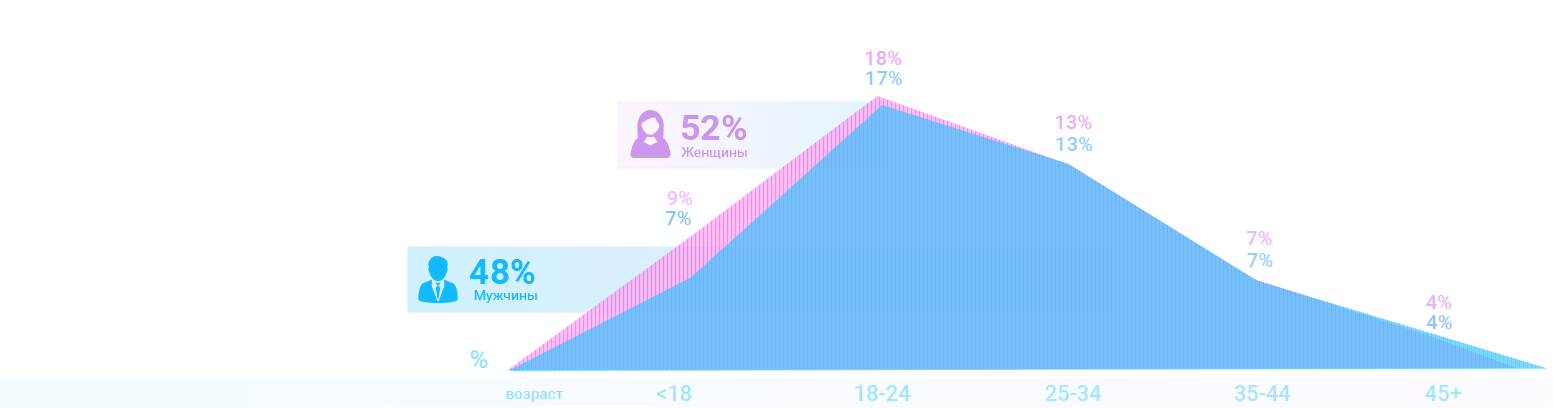
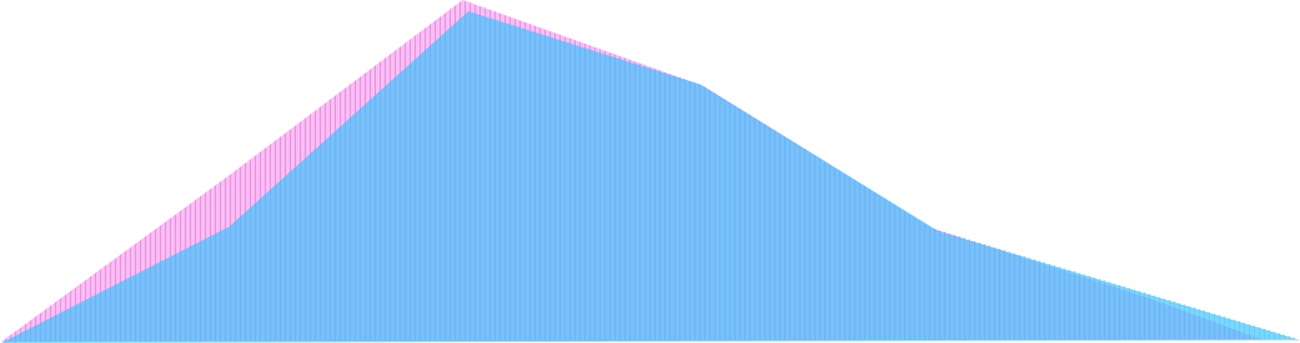
commit

diff --git a/linkagency.css b/linkagency.css
@@ -247,11 +247,126 @@ input:focus {
 }
 /**/
 #graphical_diagram{
-	background-image:  url("img/background3.jpg"); 
+	/*background-image:  url("img/background3.jpg"); */
 	background-size: cover;
 	background-repeat: no-repeat;
 	height: 43vw;
+	
+	background-image: radial-gradient(16px at 8% 50% ,#022e74 0%, #0d8dd2 60vw, #13baff 90vw); 
+	width: 100%;
+	position: relative;
 }
+#graphical_diagram .diagram {
+	width: 100%;
+	height: 100%;
+	position: absolute;
+	top: 0;
+	z-index: 1;
+}
+
+#graphical_diagram .wrap {
+	position: relative;
+	z-index: 1;
+	left: 0;
+}
+#graphical_diagram .container{
+	position: relative;
+	margin:auto;
+	height: 50vh;
+}
+#diagram_bg {
+	position: absolute;
+	top: 0;
+	left: 0;
+
+}
+#firstD {
+
+}
+#firstD .container{
+	position: relative;
+	margin: auto;
+}
+#firstD .container .wrap {
+	height: 0%;
+	width: 60%;
+	background-image: url(img/graphic.png);
+	position: relative;
+	margin: auto auto 0 auto;
+	background-size: 100% 100%;
+	justify-content: flex-start;
+	overflow: visible !important;
+}
+#firstD .container .wrap .numbers {
+	width: 18.1%;
+	text-align: right;
+	height: 100%;
+	position: relative;
+	top: -37px;
+}
+#firstD .container .wrap .numbers p {
+	margin: 0;
+	position: relative;
+}
+#firstD .container .wrap .numbers p:nth-child(1){
+	color:#eda6ff;
+}
+#firstD .container .wrap .numbers p:nth-child(2){
+	color: #92caff
+}
+
+#firstD .container .wrap .numbers:nth-child(1) p{
+	top: 49%;
+}
+#firstD .container .wrap .numbers:nth-child(2) p{
+	top: 0%;
+}
+#firstD .container .wrap .numbers:nth-child(3) p{
+	top: 24%;
+}
+#firstD .container .wrap .numbers:nth-child(4) p{
+	top: 66%;
+}
+#firstD .container .wrap .numbers:nth-child(5) p{
+	top: 88%;
+}
+#firstD .gender {
+	position: absolute;
+}
+#secondD {
+		display: flex;
+}
+
+#secondD .container {
+	
+	
+	text-align: center;
+
+
+}
+#secondD .container ul{
+		height: 100%;
+}
+#secondD .container li{
+	margin: 0 1.5vw;
+	flex-direction: column;
+	justify-content: flex-end;
+}
+#secondD .container li p {
+	color: #83e4ff;
+	margin: 10px 0 0 0;
+
+}
+#secondD .column {
+	height: 0;
+	width: 5vw;
+}
+#secondD .value {
+	margin: 5px;
+	color: #fff;
+}
+
+
 /**/
 #diagram{
 	background-image:  url("img/background4.jpg"); 

diff --git a/js/animations.js b/js/animations.js
@@ -1,0 +1,52 @@
+$(function(){
+	var animations = []
+	var reset = []
+
+	animations[0] = function(){
+		heightTo = 70;
+		numbersLen = $('#firstD .numbers').length
+		numbersVal = [];
+		for (var i = 0; i < numbersLen; i++) {
+			numbersVal[i] = {}
+			numbersVal[i].f =  parseInt($('#firstD .numbers:eq('+i+')').attr('female'))
+			numbersVal[i].m =  parseInt($('#firstD .numbers:eq('+i+')').attr('male'))
+		}
+		console.log(numbersVal)
+		pixelsto = $('#firstD .container').height()/100*heightTo
+		$('#firstD .container .wrap').animate({'height':pixelsto},{duration:1000,step:function(now,fx){
+			console.log(now/pixelsto)
+			for (var i = 0; i <numbersLen; i++) {
+				
+				$('#firstD .numbers:eq('+i+') p:nth-child('+1+')').html(Math.round(now/pixelsto*numbersVal[i].f)+'%')
+				$('#firstD .numbers:eq('+i+') p:nth-child('+2+')').html(Math.round(now/pixelsto*numbersVal[i].m)+'%')
+			}
+		}, complete: function(){alert('go')}})
+		
+	}
+
+	animations[1] = function(){
+		containerHeight =  $('#secondD .container').height()
+		len = $('#secondD li').length
+		timer = 1000
+		console.log(len)
+		for (var i = 0; i < len; i++) {
+			that = $('#secondD .column:eq('+i+')')
+			val = that.attr('val')
+			height = (containerHeight/100)*val
+
+		
+			
+			
+			$('#secondD .column:eq('+i+')').animate({'height': height},{duration:timer, step:function(now,fx){
+				$(this).siblings('.value').html(Math.round((now/containerHeight)*1000)/10 + '%')
+					}
+			})
+			console.log($('#secondD .column:eq('+i+')'))
+
+		}
+
+	}
+
+	animations[0]()
+
+})

diff --git a/index.php b/index.php
@@ -121,6 +121,7 @@
 
 		<script src="js/jquery-3.2.1.js"></script>
 		<script src="js/jquery-3.2.1.min.js"></script>
+		<script src = "js/animations.js"></script>
 
 		<!--for first gallery-->
 		<script>
@@ -351,8 +352,84 @@
 
 			<div id="graphical_diagram">
 
-				<img src="img/graphic.png" width="80%" style="margin-top: 10vw;">
+				<!--<img src="img/graphic.png" width="80%" style="margin-top: 10vw;">-->
+				<div class="wrap">
+						<div id="firstD" class="diagram" style="left: 0">
+							<div class="container flex">
+									
+								<div class=" flex wrap">
+									<div class="gender fe"><p class="prec">52%</p><p>Женщины</p></div>	
+									<div class="gender ma"><p class="prec">48%</p><p> Мужчины</p></div>	
+									<div class="numbers" male="7" female="9"><p>0</p><p>0<p></div>
+									<div class="numbers" male="17" female="18"><p>0</p><p>0<p></div>
+									<div class="numbers" male="13" female="13"><p>0</p><p>0<p></div>
+									<div class="numbers" male="7" female="7"><p>0</p><p>0<p></div>
+									<div class="numbers" male="4" female="4"><p>0</p><p>0<p></div>
+								</div>
+							</div>
+						</div>
+						<div id="secondD" class="diagram" style="left: 100%">
+							<div class="container">
+								<ul class="flex">
+									<li class="flex">
+										<h3 class="value"></h3>
+										<div class="column" style="background-color: #00bff3" val="68.5">	</div>
+										<p class="name">Внутренние<p>
+									</li>
+									<li class="flex">
+										<h3 class="value"></h3>
+										<div class="column" style="background-color: #00afde" val='23.1'>	</div>
+										<p class="name">Поиск<p>
+									</li>
+									<li class="flex">
+										<h3 class="value"></h3>
+										<div class="column" style="background-color: #02a1cb" val='7.8'>	</div>
+										<p class="name">Закладки<p>
+									</li>
+									<li class="flex">
+										<h3 class="value"></h3>
+										<div class="column" style="background-color: #02a1cb" val='0.5'>	</div>
+										<p class="name">Сайты<p>
+									</li>
+									<li class="flex">
+										<h3 class="value"></h3>
+										<div class="column" style="background-color: #02a1cb" val='0.1'>	</div>
+										<p class="name">Соц. сети<p>
+									</li>
+									<li class="flex">
+										<h3 class="value"></h3>
+										<div class="column" style="background-color: #02a1cb" val='0'>	</div>
+										<p class="name">Объявления<p>
+									</li>
+								</ul>
+							</div>
+						</div>
+				<div class="diagram" style="left: 200%"></div>
+				</div>
+				<canvas id="diagram_bg" width="300vw" height="100%"></canvas>
 			</div>
+			<script type="">
+
+				var dotCount = 350;
+				var dotSizeMax = 13;
+				var dotSizeMin = 1;
+
+				var bg = document.getElementById('diagram_bg')
+
+				bg.width = $('#graphical_diagram').width()*3;
+            	bg.height = $('#graphical_diagram').height();
+
+				bgctx = bg.getContext('2d')
+				//bgctx.fillStyle = "#ffffff"
+				for (var i = 0; i < dotCount; i++) {
+					bgctx.beginPath();
+			      	bgctx.fillStyle = '#ffffff';
+			      	bgctx.arc(Math.random()*bg.width, Math.random()*bg.height, dotSizeMin+(Math.random(dotSizeMax - dotSizeMin)*Math.random()/0.5), 0, 2 * Math.PI, false);
+			      	bgctx.fill();
+				}
+
+
+			</script>
 
 			<div id="diagram">
 
